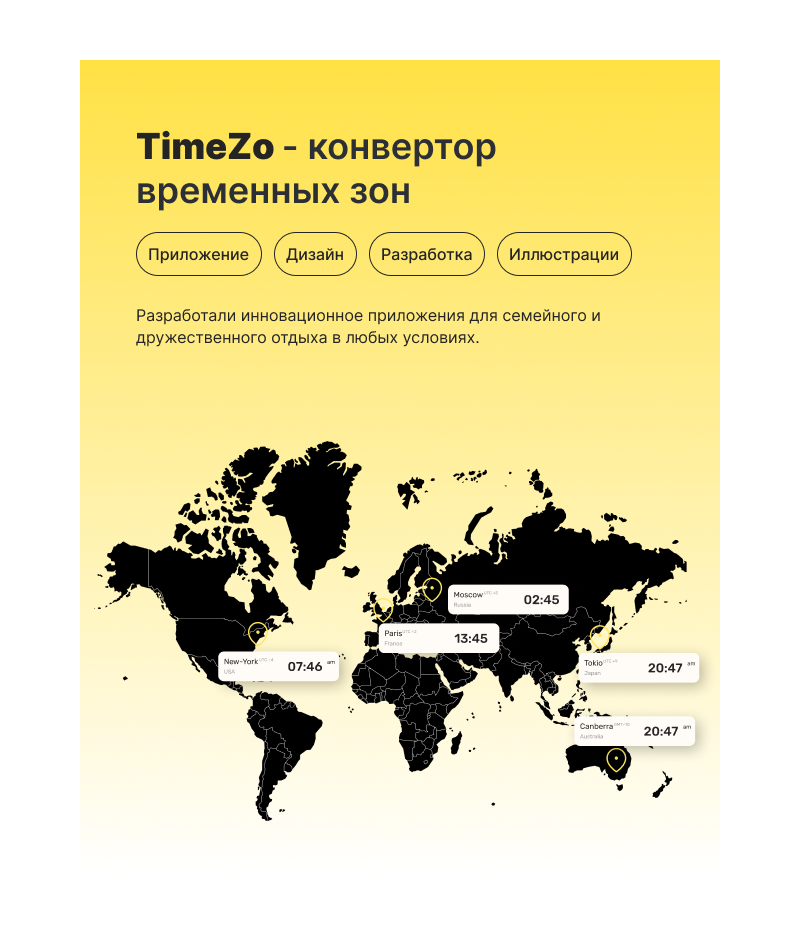
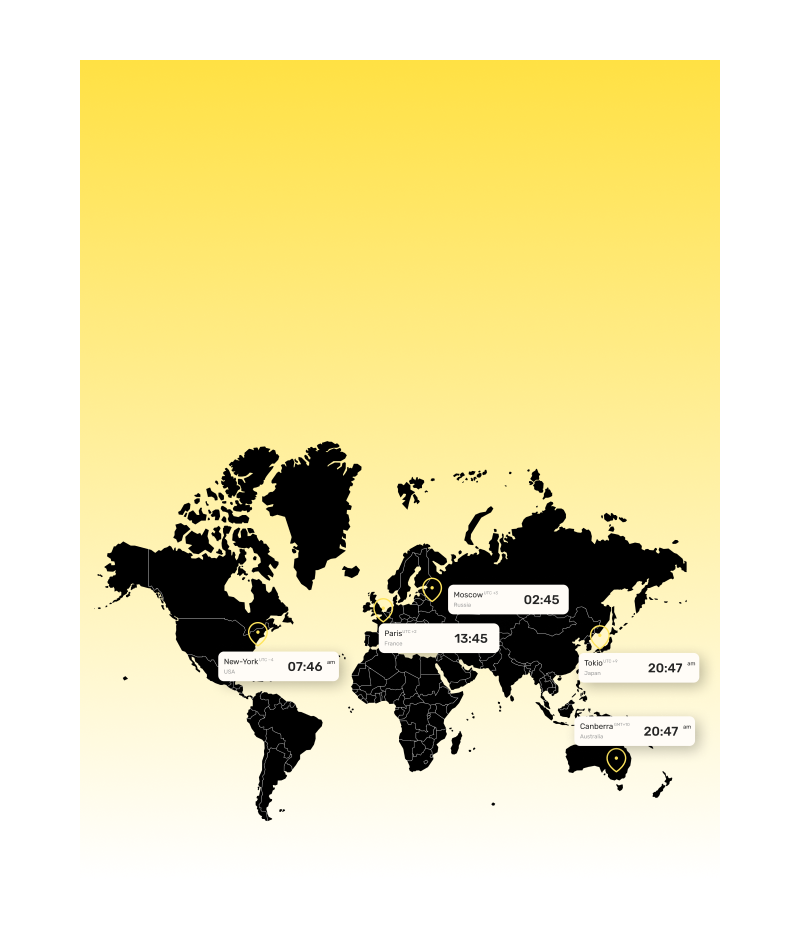
feat: added text content in project img

diff --git a/src/components/ProjectList/Project/index.module.scss b/src/components/ProjectList/Project/index.module.scss
@@ -1,0 +1,90 @@
+@import "../../../styles/foundations.scss";
+
+$maxVisibleWidth: 566.5px;
+
+.container {
+  position: relative;
+
+  height: auto;
+  width: autoResize(566.5px, 800px, $landscape1133);
+
+  img {
+    height: auto;
+    width: 100%;
+  }
+
+  @media (max-width: $landscape1132) {
+    max-width: 800px;
+    width: 100%;
+  }
+
+  .content_wrapper {
+    position: absolute;
+
+    margin-top: 7.5%;
+    margin-left: 10%;
+    margin-right: 10%;
+  }
+
+  .content {
+    margin-top: autoResize(44px, 64px, $landscape1133);
+    margin-left: autoResize(40px, 56px, $landscape1133);
+    margin-right: autoResize(40px, 56px, $landscape1133);
+
+    @media (max-width: $landscape1132) {
+      margin-top: autoResize(23.47px, 64px, $landscape320, $landscape1132);
+      margin-left: autoResize(16.81px, 56px, $landscape320, $landscape1132);
+      margin-right: autoResize(13px, 56px, $landscape384, $landscape1132);
+    }
+
+    h6 {
+      margin-bottom: autoResize(15px, 20px, $landscape1133);
+
+      @media (max-width: $landscape1132) {
+        margin-bottom: autoResize(15px, 20px, $maxVisibleWidth, $landscape1132);
+      }
+    }
+
+    &__tags {
+      display: flex;
+      flex-wrap: wrap;
+      gap: autoResize(8.5px, 12px, $landscape1133);
+
+      max-width: 100%;
+
+      margin-bottom: autoResize(20px, 28px, $landscape1133);
+
+      @media (max-width: $landscape1132) {
+        gap: autoResize(8.5px, 12px, $maxVisibleWidth, $landscape1132);
+        margin-bottom: autoResize(20px, 28px, $maxVisibleWidth, $landscape1132);
+      }
+
+      @media (max-width: $maxVisibleWidth) {
+        display: none;
+      }
+
+      div {
+        padding: autoResize(8.5px, 12px, $landscape1133);
+
+        border: 0.708125px solid $white;
+        border-radius: autoResize(110.467px, 156px, $landscape1133);
+
+        @media (max-width: $landscape1132) {
+          padding: autoResize(8.5px, 12px, $maxVisibleWidth, $landscape1132);
+          border-radius: autoResize(
+            110.467px,
+            156px,
+            $maxVisibleWidth,
+            $landscape1132
+          );
+        }
+      }
+    }
+
+    p {
+      @media (max-width: $maxVisibleWidth) {
+        display: none;
+      }
+    }
+  }
+}

diff --git a/src/data/projectData.ts b/src/data/projectData.ts
@@ -1,0 +1,30 @@
+import { ProjectProps } from "../components/ProjectList/Project/project.interface";
+
+import timeZo from "../assets/images/timeZo.png";
+import timeZo2 from "../assets/images/timeZo@2x.png";
+import timeZo3 from "../assets/images/timeZo@3x.png";
+import truthOrDare from "../assets/images/truthOrDare.png";
+import truthOrDare2 from "../assets/images/truthOrDare@2x.png";
+import truthOrDare3 from "../assets/images/truthOrDare@3x.png";
+
+const data: ProjectProps[] = [
+  {
+    title: "Приложени имитации игры ”Правда или действие”",
+    description:
+      "Разработали инновационное приложения для семейного и дружественного отдыха в любых условиях.",
+    tags: ["Приложение", "Дизайн", "Разработка", "Иллюстрации"],
+    bgImage: { x1: truthOrDare, x2: truthOrDare2, x3: truthOrDare3 },
+
+    isDarkContent: false,
+  },
+  {
+    title: "TimeZo - конвертор временных зон",
+    description:
+      "Разработали инновационное приложения для семейного и дружественного отдыха в любых условиях.",
+    tags: ["Приложение", "Дизайн", "Разработка", "Иллюстрации"],
+    bgImage: { x1: timeZo, x2: timeZo2, x3: timeZo3 },
+    isDarkContent: true,
+  },
+];
+
+export { data };

diff --git a/src/components/ProjectList/Project/index.tsx b/src/components/ProjectList/Project/index.tsx
@@ -1,0 +1,43 @@
+import styles from "./index.module.scss";
+import { FC } from "react";
+
+import Image from "../../Image";
+import { ProjectProps } from "./project.interface";
+
+const Project: FC<ProjectProps> = ({
+  title,
+  description,
+  tags,
+  bgImage,
+  isDarkContent,
+}) => {
+  const colors = { dark: "#242424", light: "#FFFFFF" };
+
+  return (
+    <div className={styles.container}>
+      <div className={styles.content_wrapper}>
+        <div
+          style={{ color: isDarkContent ? colors.dark : colors.light }}
+          className={styles.content}
+        >
+          <h6>{title}</h6>
+          <div className={styles.content__tags}>
+            {tags.map((tag) => (
+              <div
+                style={{
+                  borderColor: isDarkContent ? colors.dark : colors.light,
+                }}
+              >
+                {tag}
+              </div>
+            ))}
+          </div>
+          <p>{description}</p>
+        </div>
+      </div>
+      <Image src={bgImage.x1} images={bgImage} alt={`${title} background`} />
+    </div>
+  );
+};
+
+export default Project;

diff --git a/src/components/ProjectList/index.tsx b/src/components/ProjectList/index.tsx
@@ -1,16 +1,21 @@
 import styles from "./index.module.scss";
 
-import Image from "../Image";
+import Project from "./Project";
 
-import img1 from "../../assets/images/truthOrDare.png";
-import img2 from "../../assets/images/timeZo.png";
+import { data } from "../../data/projectData";
 
 const ProjectList = () => {
   return (
     <div className={styles.container}>
-      <Image src={img1} images={null} />
-      <Image src={img2} images={null} />
-      <Image src={img1} images={null} />
+      {data.map(({ title, description, tags, bgImage, isDarkContent }) => (
+        <Project
+          title={title}
+          description={description}
+          tags={tags}
+          bgImage={bgImage}
+          isDarkContent={isDarkContent}
+        />
+      ))}
     </div>
   );
 };

diff --git a/src/components/ProjectList/index.module.scss b/src/components/ProjectList/index.module.scss
@@ -8,14 +8,4 @@
   justify-content: center;
 
   margin-top: 36px;
-
-  img {
-    height: auto;
-    width: autoResize(566.5px, 800px, $landscape1133);
-
-    @media (max-width: $landscape1132) {
-      max-width: 800px;
-      width: 100%;
-    }
-  }
 }

diff --git a/src/components/ProjectList/Project/project.interface.ts b/src/components/ProjectList/Project/project.interface.ts
@@ -1,0 +1,9 @@
+import { ImageSizes } from "../../Image/image.interface";
+
+export interface ProjectProps {
+  title: string;
+  description: string;
+  tags: string[];
+  bgImage: ImageSizes;
+  isDarkContent: boolean;
+}
